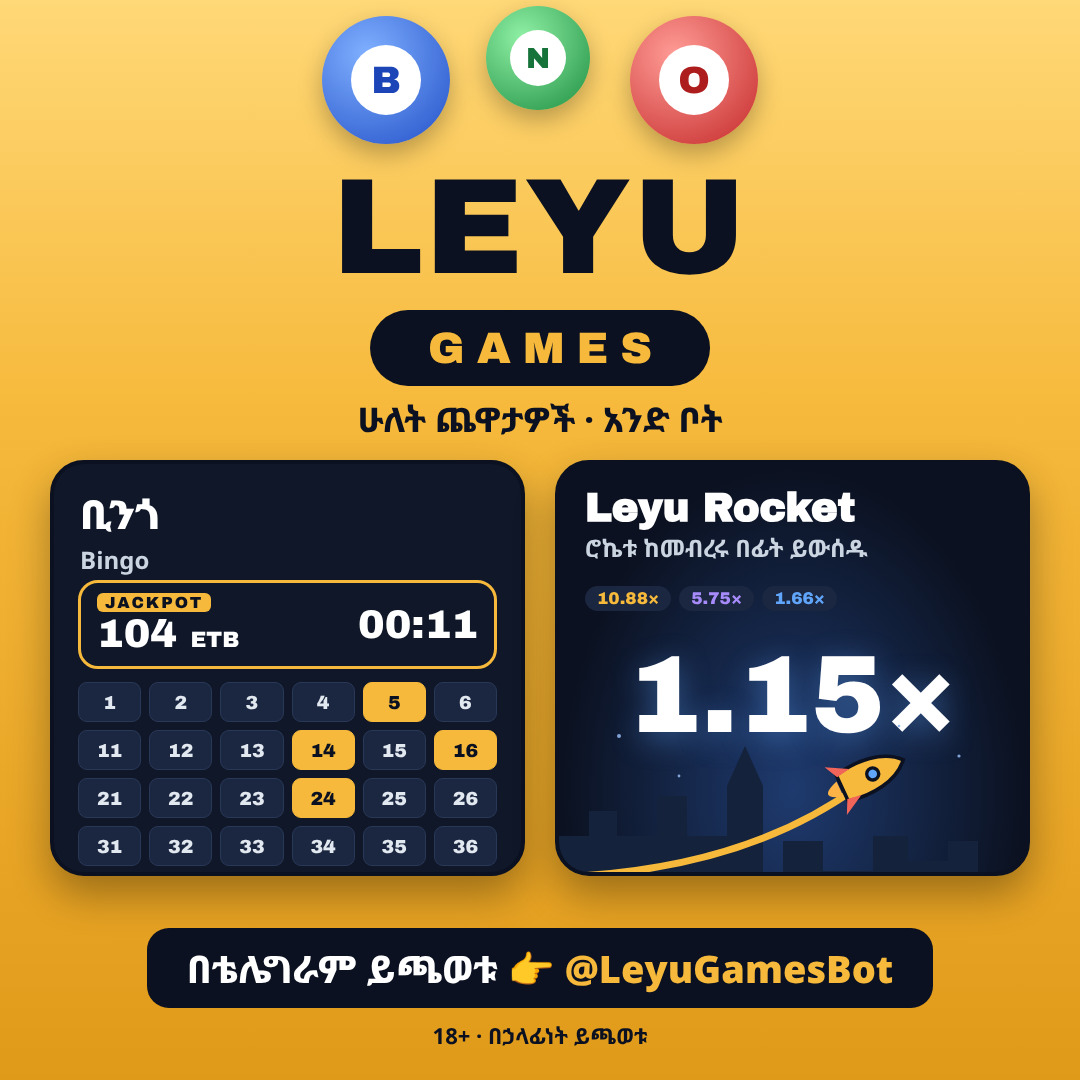
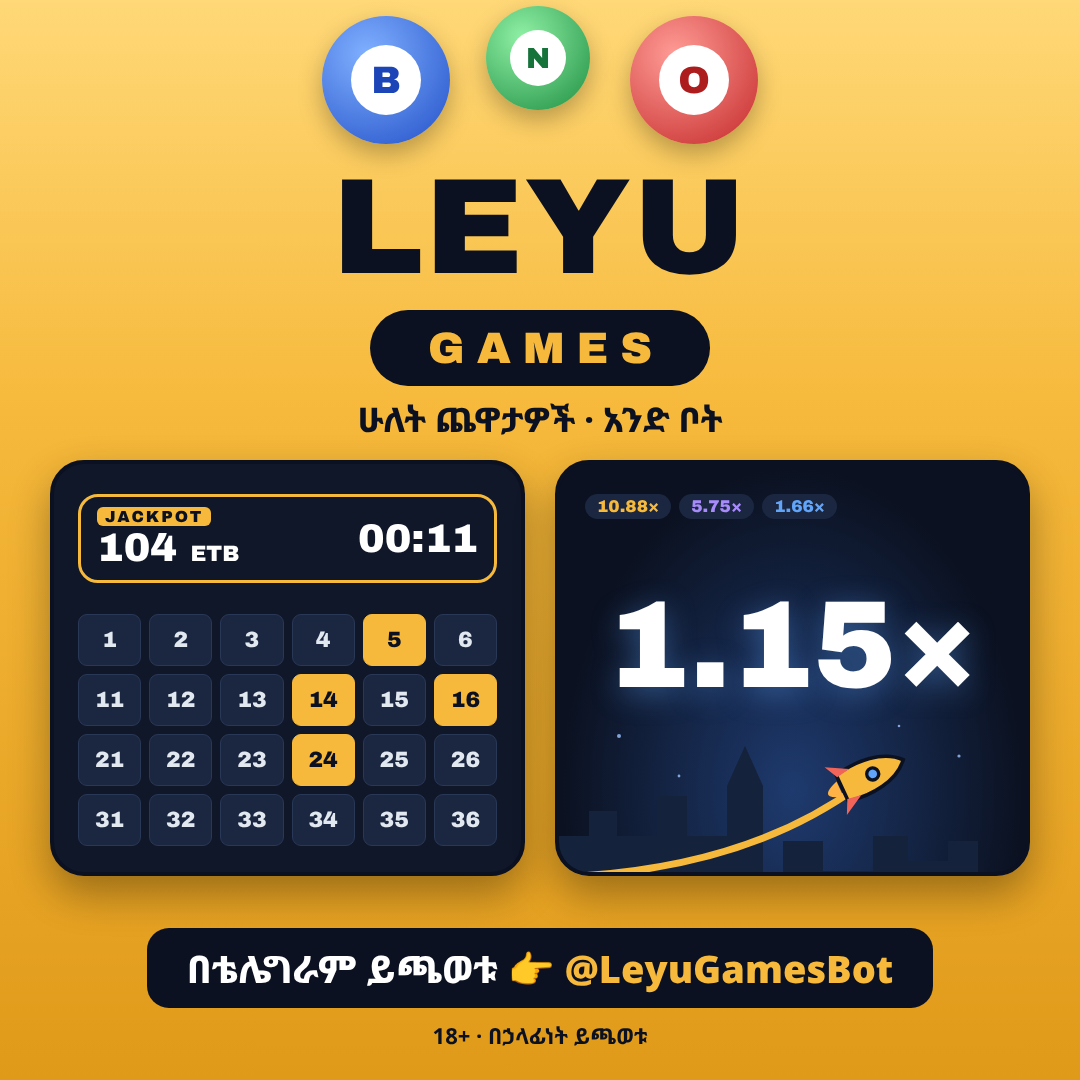
Leyu Games post: show the two games as pictures only, without names
Claude-Session: https://claude.ai/code/session_01Nu2BzcyXdDo5pV38RCPQCQ

Changed region(s): [[0.0611, 0.4583, 0.4583, 0.7944], [0.5194, 0.4583, 0.9167, 0.7028]]

diff --git a/brand/promo/leyu-games-post.html b/brand/promo/leyu-games-post.html
@@ -13,17 +13,17 @@ body{width:1080px;height:1080px;overflow:hidden;font-family:Ethi,sans-serif;colo
 .card{flex:1;height:416px;border-radius:34px;overflow:hidden;position:relative;background:#0f1729;border:4px solid #0b1120;box-shadow:0 18px 40px #0005}
 .label{position:absolute;left:26px;top:22px;font-family:Archivo,Ethi;font-weight:900;font-size:40px}
 .label small{display:block;font-family:Ethi;font-size:24px;font-weight:700;color:#cbd5e1;margin-top:2px}
-.jp{position:absolute;left:24px;right:24px;top:116px;border:3px solid #f6b93b;border-radius:20px;padding:10px 16px;display:flex;justify-content:space-between;align-items:center}
+.jp{position:absolute;left:24px;right:24px;top:30px;border:3px solid #f6b93b;border-radius:20px;padding:10px 16px;display:flex;justify-content:space-between;align-items:center}
 .jp b{display:block;font-size:16px;letter-spacing:2px;color:#0b1120;background:#f6b93b;border-radius:6px;padding:1px 8px;width:max-content;font-family:Archivo;font-weight:400}
 .jp .amt{font-family:Archivo;font-size:40px;line-height:1.1}
 .jp .amt i{font-style:normal;font-size:22px}
 .jp .t{font-family:Archivo;font-size:40px}
-.grid{position:absolute;left:24px;right:24px;top:218px;display:grid;grid-template-columns:repeat(6,1fr);gap:8px}
-.grid div{height:40px;border-radius:9px;background:#1b2740;border:1px solid #2a3858;display:flex;align-items:center;justify-content:center;font-family:Archivo;font-size:19px;color:#e2e8f0}
+.grid{position:absolute;left:24px;right:24px;top:150px;display:grid;grid-template-columns:repeat(6,1fr);gap:8px}
+.grid div{height:52px;border-radius:9px;background:#1b2740;border:1px solid #2a3858;display:flex;align-items:center;justify-content:center;font-family:Archivo;font-size:22px;color:#e2e8f0}
 .grid .on{background:#f6b93b;color:#0b1120;border-color:#f6b93b}
 .rocket{background:radial-gradient(ellipse at 50% 80%,#1e3a6e 0,#0b1120 70%)}
-.mult{position:absolute;top:176px;left:0;right:0;text-align:center;font-family:Archivo;font-size:110px;line-height:1;text-shadow:0 6px 30px #60a5fa66}
-.hist{position:absolute;top:122px;left:26px;display:flex;gap:8px}
+.mult{position:absolute;top:120px;left:0;right:0;text-align:center;font-family:Archivo;font-size:124px;line-height:1;text-shadow:0 6px 30px #60a5fa66}
+.hist{position:absolute;top:30px;left:26px;display:flex;gap:8px}
 .hist span{background:#1b2740;border-radius:30px;padding:3px 12px;font-family:Archivo;font-size:17px}
 .foot{position:absolute;bottom:30px;left:0;right:0;text-align:center;color:#0b1120}
 .cta{display:inline-block;background:#0b1120;color:#fff;font-size:38px;font-weight:800;border-radius:22px;padding:14px 40px}
@@ -40,7 +40,6 @@ body{width:1080px;height:1080px;overflow:hidden;font-family:Ethi,sans-serif;colo
 
 <div class="cards">
   <div class="card">
-    <div class="label">ቢንጎ <small>Bingo</small></div>
     <div class="jp"><div><b>JACKPOT</b><div class="amt">104 <i>ETB</i></div></div><div class="t">00:11</div></div>
     <div class="grid">
       <div>1</div><div>2</div><div>3</div><div>4</div><div class="on">5</div><div>6</div>
@@ -50,7 +49,6 @@ body{width:1080px;height:1080px;overflow:hidden;font-family:Ethi,sans-serif;colo
     </div>
   </div>
   <div class="card rocket">
-    <div class="label">Leyu Rocket <small>ሮኬቱ ከመብረሩ በፊት ይውሰዱ</small></div>
     <div class="hist"><span style="color:#f6b93b">10.88×</span><span style="color:#a78bfa">5.75×</span><span style="color:#60a5fa">1.66×</span></div>
     <div class="mult">1.15×</div>
     <svg style="position:absolute;left:0;bottom:-24px" width="460" height="440" viewBox="0 0 460 440">
